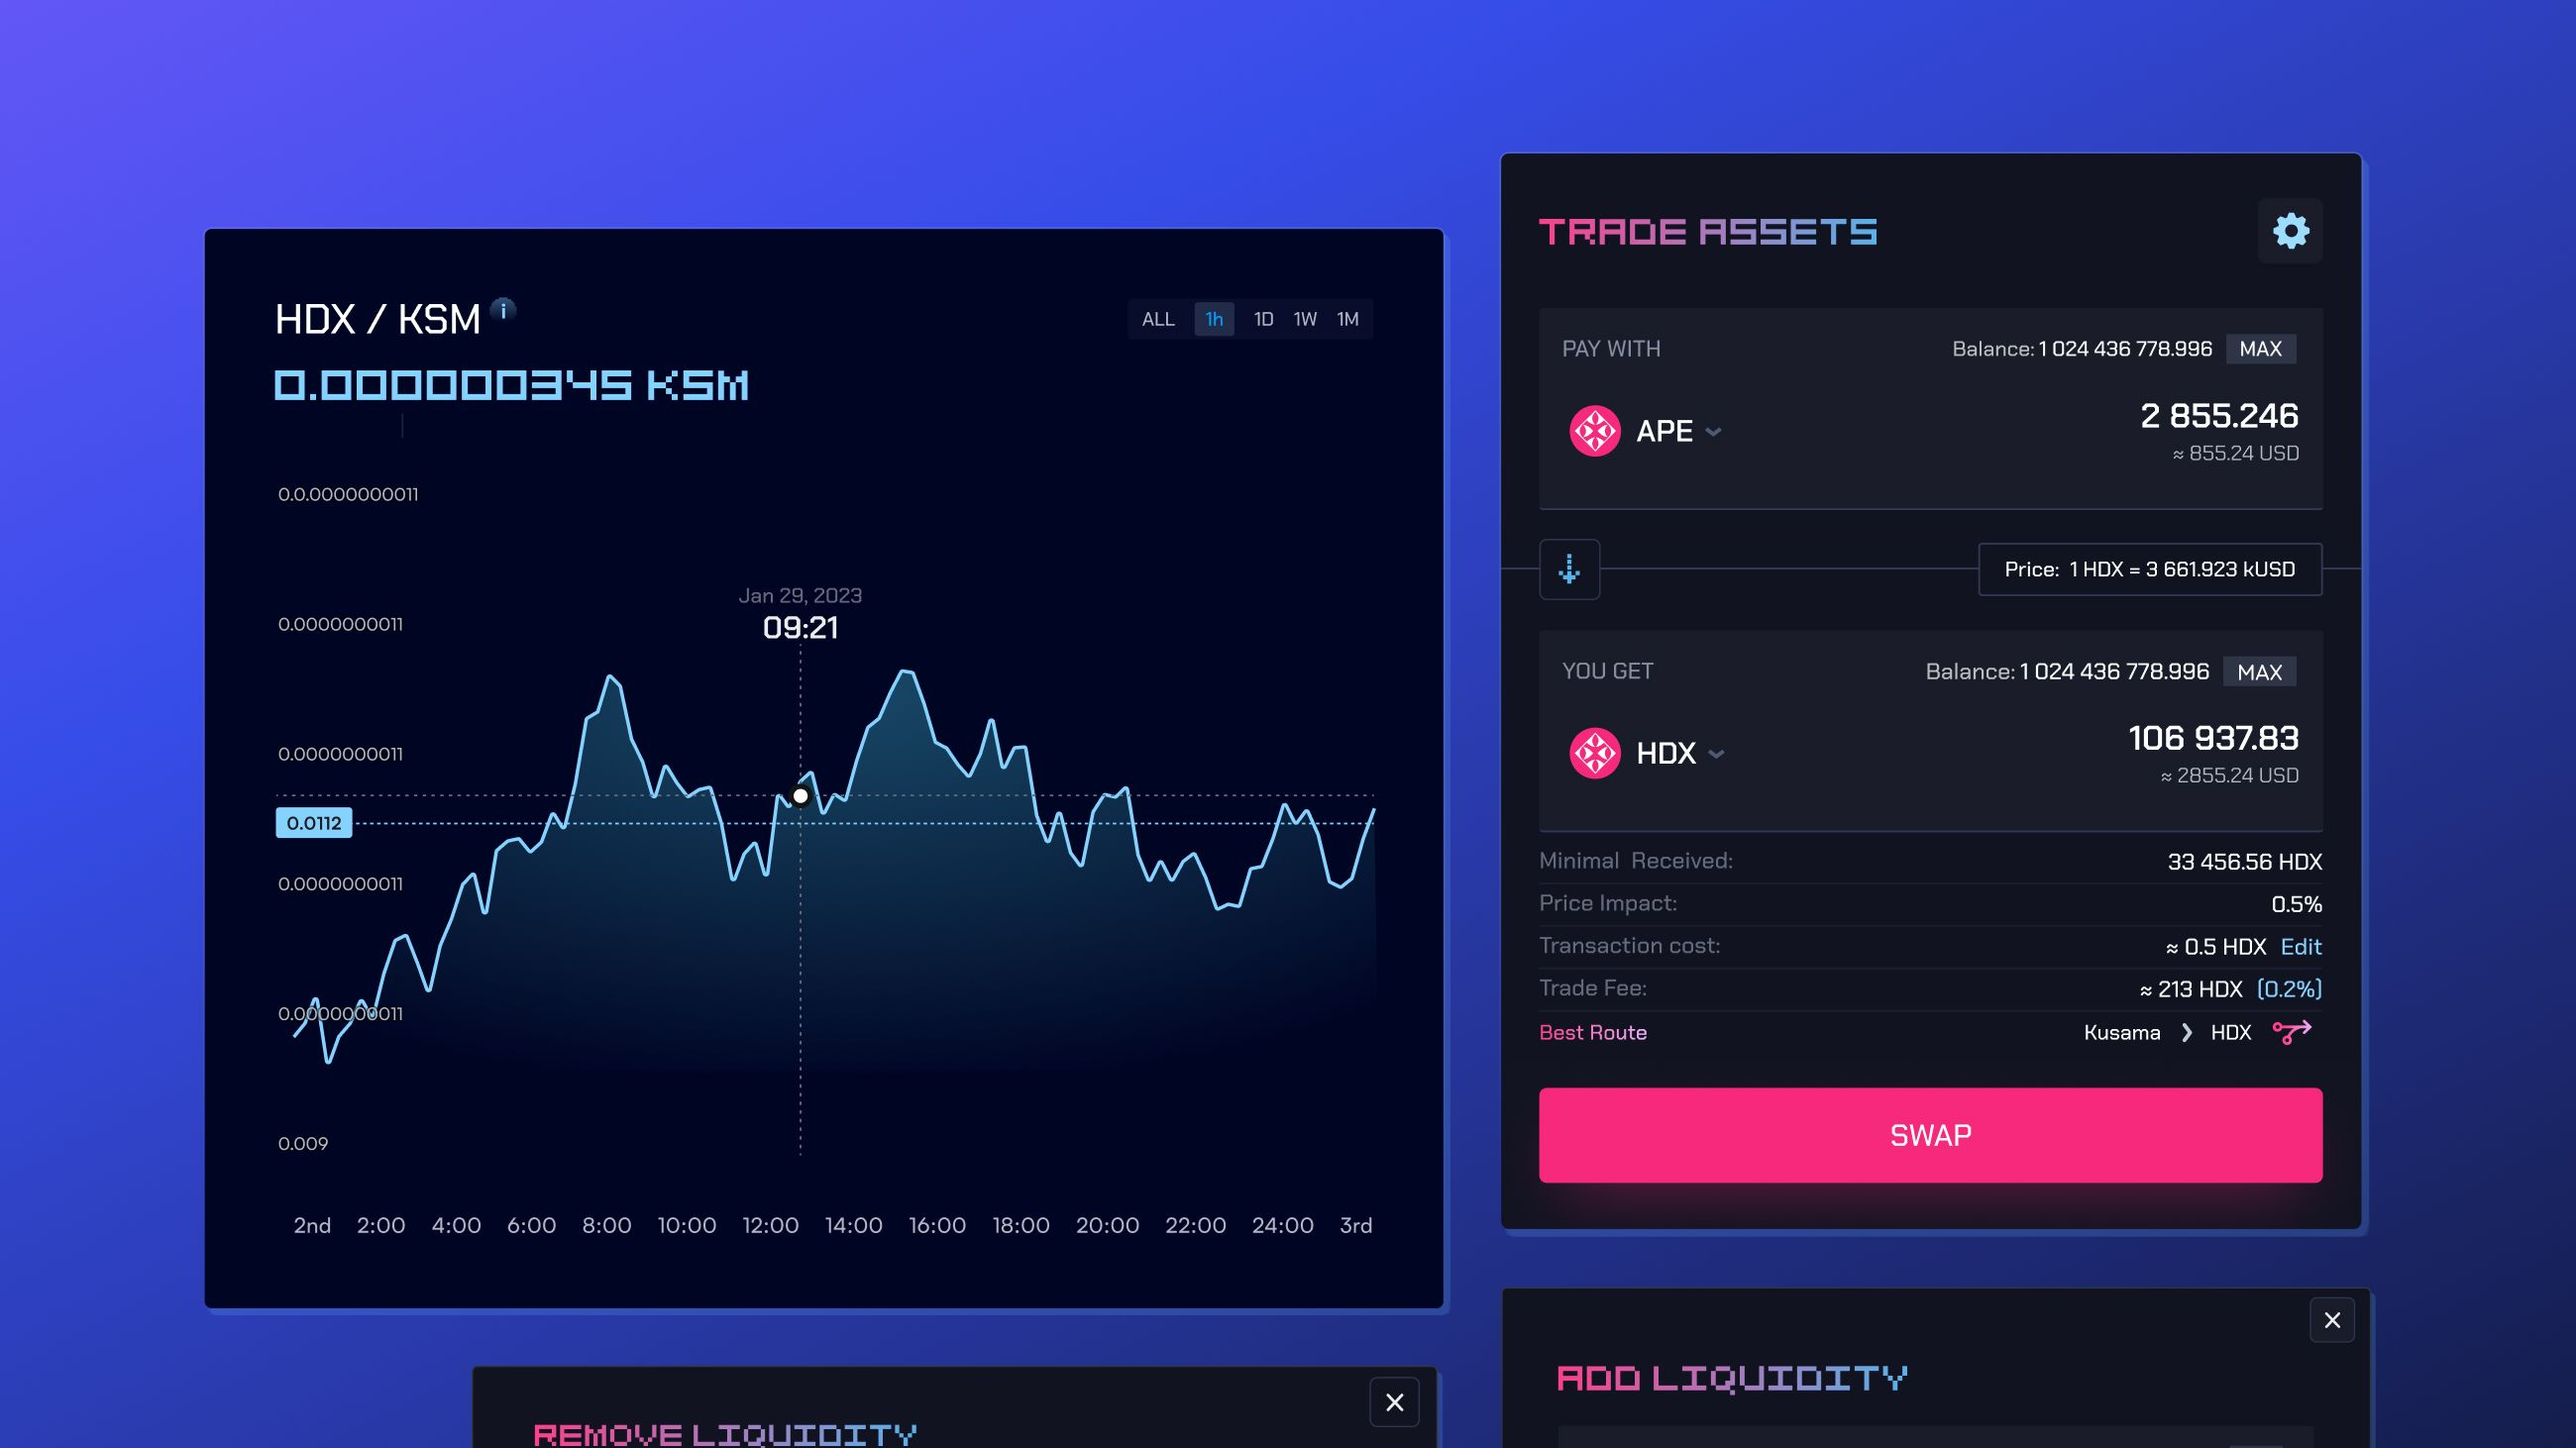
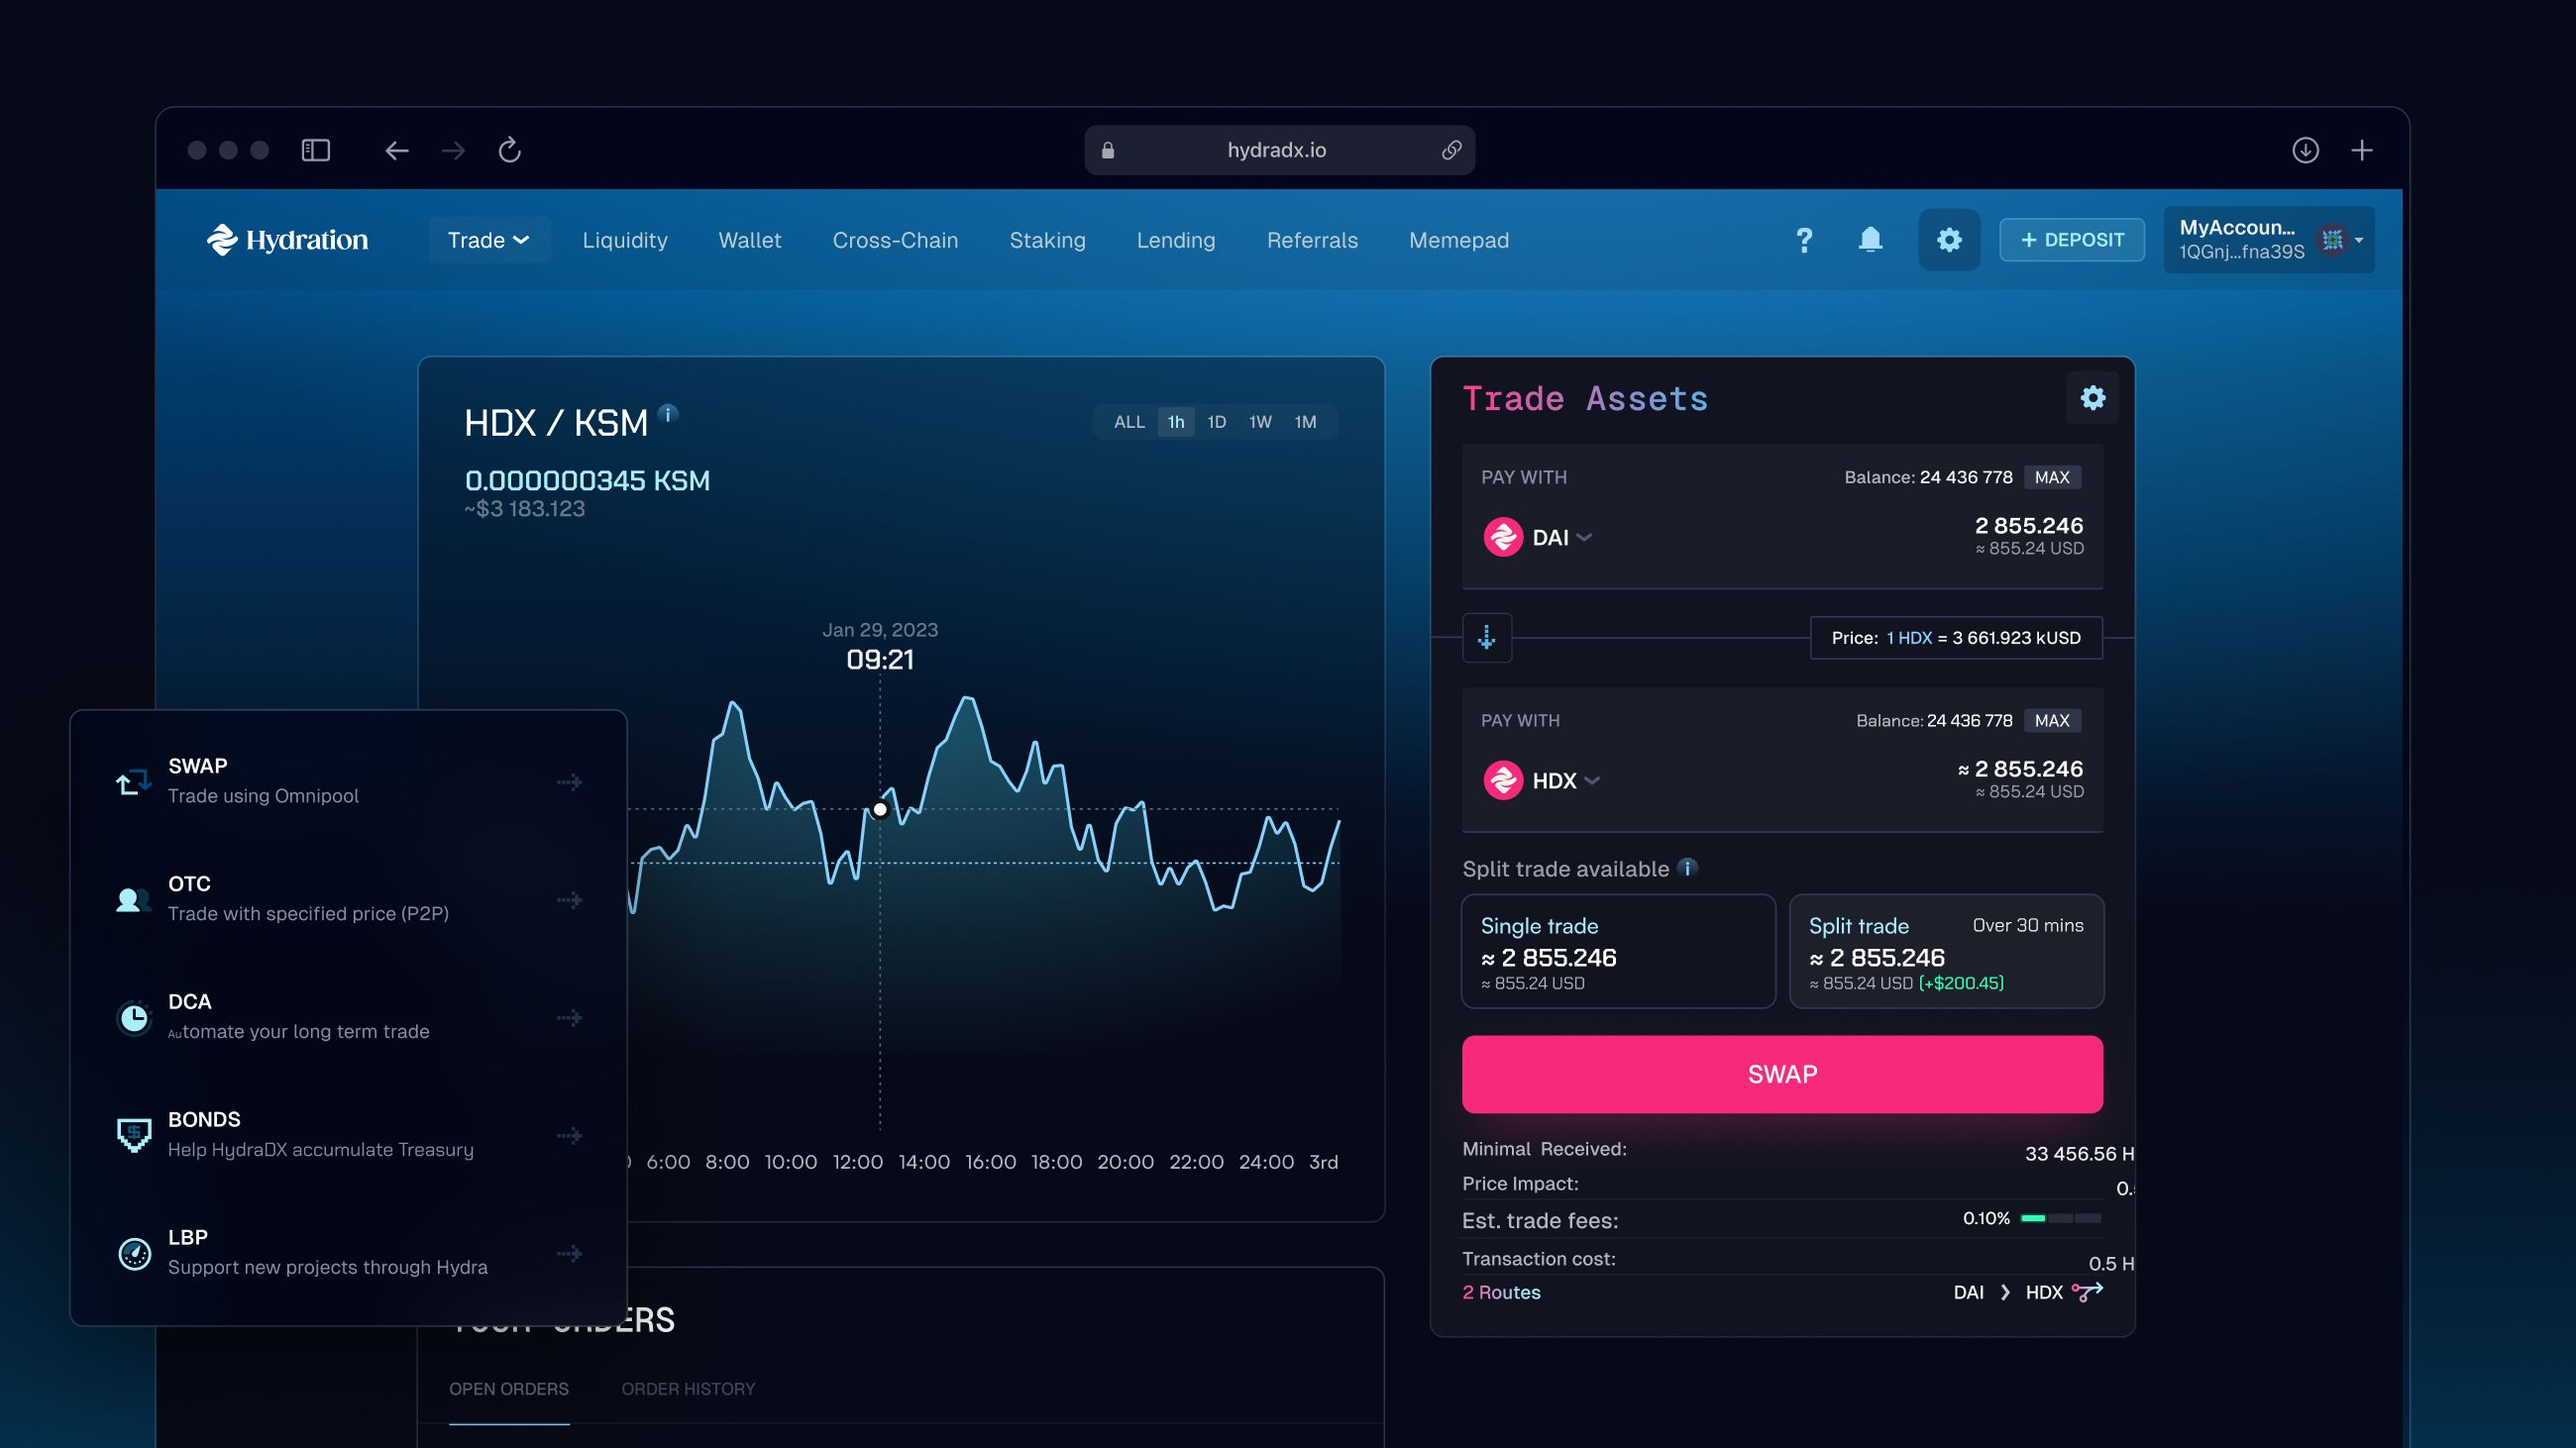
Disable carousel parallax/scaling and fix alignment, update HydraDX images

diff --git a/themes/folio/source/css/style.css b/themes/folio/source/css/style.css
@@ -688,8 +688,8 @@ body {
   /* Black */
   border-radius: var(--radius-m);
   transform-origin: left center;
-  transform: scaleX(0);
-  transition: transform var(--progress-transition, 0.2s) ease;
+  /* transform: scaleX(0); */
+  /* transition: transform var(--progress-transition, 0.2s) ease; */
 }
 
 /* Embla Carousel */
@@ -710,7 +710,8 @@ body {
 .embla__container {
   display: flex;
   touch-action: pan-y pinch-zoom;
-  gap: var(--carousel-slide-gap, 1.25rem);
+  gap: 0;
+  /* alignment fix: using margin on slide instead of flex-gap */
   will-change: transform;
 }
 
@@ -725,6 +726,8 @@ body {
   position: relative;
   display: grid;
   place-items: stretch;
+  margin-right: var(--carousel-slide-gap, 1.25rem);
+  flex-shrink: 0;
 }
 
 /* No more next slide peek, always single slide in focus */
@@ -744,8 +747,8 @@ body {
   object-fit: cover;
   object-position: var(--carousel-object-position, center);
   /* Parallax: translateY shifts image within container, scale provides overflow room */
-  transform: scale(var(--carousel-image-scale, 1)) translateY(var(--parallax-y, 0%));
-  transform-origin: center;
+  /* Parallax removed as requested */
+  transform: none !important;
   -webkit-user-drag: none;
   z-index: 0;
   will-change: transform;
@@ -2822,10 +2825,6 @@ body.project-page {
   filter: brightness(1.05);
 }
 
-.embla__slide {
-  overflow: visible !important;
-  /* Allow scale hover without clipping */
-}
 
 /* Refined Project Subpage Header & Details */
 .project-details--top {

diff --git a/themes/folio/source/js/main.js b/themes/folio/source/js/main.js
@@ -404,7 +404,7 @@ document.addEventListener('DOMContentLoaded', () => {
     const carouselWrappers = document.querySelectorAll('.project-carousel-wrapper');
     if (!carouselWrappers.length) return;
 
-    const PARALLAX_STRENGTH = 3;
+    const PARALLAX_STRENGTH = 0;
     const visibleWrappers = new Set();
     const mediaCache = new Map();
 

diff --git a/source/work/hydradx.md b/source/work/hydradx.md
@@ -10,6 +10,10 @@ carousel:
   - /images/work/hydra_1_1.jpg
   - /images/work/hydra_2.jpg
   - /images/work/hydra_3.jpg
+  - /images/work/hydra_4.jpg
+  - /images/work/hydra_5.jpg
+  - /images/work/hydra_6.jpg
+  - /images/work/hydra_7.jpg
 carousel_object_fit: cover
 carousel_object_position: "top center"
 carousel_image_scale: 1.1
